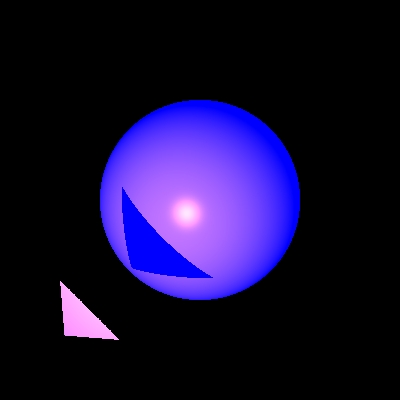
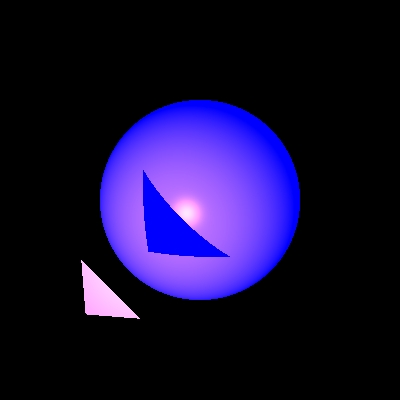
done shadow

Changed region(s): [[0.3, 0.42, 0.57, 0.72], [0.15, 0.66, 0.36, 0.87]]

diff --git a/src/renderer/Render.java b/src/renderer/Render.java
@@ -90,7 +90,7 @@ public class Render {
        for (LightSource lightSource : scene.get_lights()) {
            Vector l = lightSource.getL(intersection.point);
            if (signum(n.dotProduct(l)) == signum(n.dotProduct(v)) && !isZero(n.dotProduct(l)) && !isZero(n.dotProduct(v))) {
-               if (unshaded(l, n, intersection)){
+               if (unshaded(l, n, intersection , lightSource)){
                    Color lightIntensity = lightSource.getIntensity(intersection.point);
                    color = color.add(calcDiffusive(kd, l, n, lightIntensity), calcSpecular(ks, l, n, v, nShininess, lightIntensity));
                }
@@ -180,7 +180,14 @@ public class Render {
    }
 
 
-    private boolean unshaded(Vector l, Vector n, GeoPoint geopoint) {
+    /**
+     * Returns true if the point on a geometric object is shaded
+     * @param l vector from light to the point
+     * @param n vector normal
+     * @param geopoint the geometric object + point on it
+     * @return
+     */
+    private boolean unshaded(Vector l, Vector n, GeoPoint geopoint , LightSource lightSource) {
         Vector lightDirection = l.scale(-1); // from point to light source
 
         Vector delta = n.scale(n.dotProduct(lightDirection) > 0 ? DELTA : - DELTA);
@@ -188,6 +195,14 @@ public class Render {
 
         Ray lightRay = new Ray(point, lightDirection);
         List<GeoPoint> intersections = scene.get_geometries().findIntsersections(lightRay);
-        return intersections == null;
+
+        if (intersections == null)
+            return true;
+        double lightDistance = lightSource.getDistance(geopoint.point);
+        for (GeoPoint gp : intersections) {
+            if (alignZero(gp.point.distance(geopoint.point) - lightDistance) <= 0)
+                return false;
+        }
+        return true;
     }
 }

diff --git a/src/unittests/ShadowTests.java b/src/unittests/ShadowTests.java
@@ -55,7 +55,7 @@ public class ShadowTests {
 		scene.addGeometries(new Sphere(new Color(java.awt.Color.BLUE), new Material(0.5, 0.5, 30), //
 				 new Point3D(0, 0, 200),60), //
 				new Triangle(new Color(java.awt.Color.BLUE), new Material(0.5, 0.5, 30), //
-						new Point3D(-70, 40, 0), new Point3D(-40, 70, 0), new Point3D(-68, 68, 4)));
+						new Point3D(-60, 30, 10), new Point3D(-30, 60, 10), new Point3D(-58, 58, 14)));
 
 		scene.addLights(new spotLight(new Color(400, 240, 0), //
 				new Point3D(-100, 100, -200), new Vector(1, -1, 3), 1, 1E-5, 1.5E-7));

diff --git a/src/elements/DirectionalLight.java b/src/elements/DirectionalLight.java
@@ -22,7 +22,13 @@ public class DirectionalLight extends Light implements LightSource{
         super(color);
         this._direction = _direction;
     }
-/*********     functions     ***********/
+
+    @Override
+    public double getDistance(Point3D point) {
+        return Double.POSITIVE_INFINITY;
+    }
+
+    /*********     functions     ***********/
     @Override
     public Color getIntensity(Point3D p) {
         return _intensity;

diff --git a/src/elements/pointLight.java b/src/elements/pointLight.java
@@ -32,7 +32,13 @@ public class pointLight extends Light implements LightSource {
         this._kl = _kl;
         this._kQ = _kQ;
     }
-/********   functions    *******/
+
+    @Override
+    public double getDistance(Point3D point) {
+        return _position.distance(point);
+    }
+
+    /********   functions    *******/
     @Override
     public Color getIntensity(Point3D p) {
         double d = p.distance(_position);

diff --git a/src/elements/LightSource.java b/src/elements/LightSource.java
@@ -12,6 +12,12 @@ import primitives.Vector;
 
 public interface LightSource {
 
+    /**
+     * return the distance from the LightSource to the point
+     * @param point point for distance calculation
+     * @return distance
+     */
+    double getDistance(Point3D point);
     /***
      * function to prevent the color of the specific light
      * @param p point in the 3D space

diff --git a/src/geometries/Intersectable.java b/src/geometries/Intersectable.java
@@ -41,5 +41,10 @@ public interface Intersectable
         }
     }
 
+    /**
+     * return all intsersections between ray and the object (geometry)
+     * @param ray
+     * @return
+     */
     List<GeoPoint> findIntsersections(Ray ray);
 }
